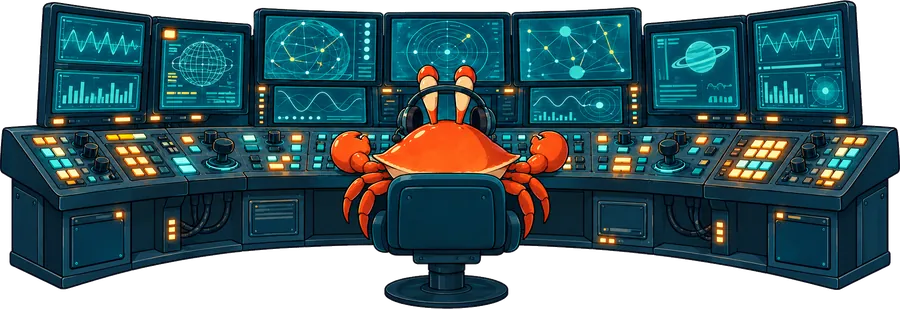
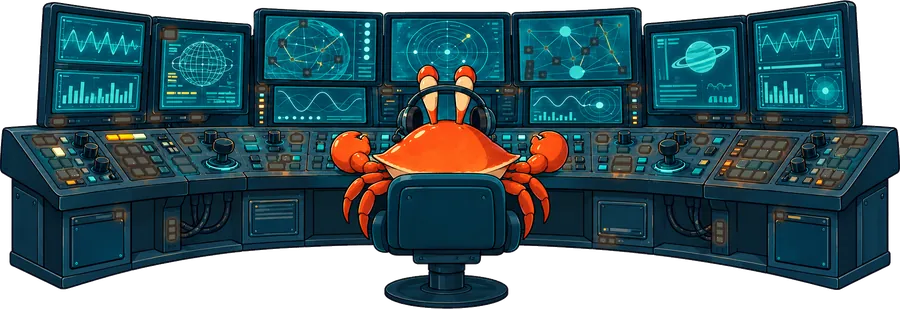
The controller's desk lights from Tom's marked copy: 69 yellow and 39 blue, exact shapes
krab-controller.webp now has every marked light off (dimmed, with the glow around it), and
krab-controller-lamps.webp holds ten groups of them lit, one band each, laid over it: six
groups of yellow lights blink (mostly on with a flicker, half and half, mostly off with a
flash), four of blue buttons and screens glow up and down. Replaces the twelve guessed lamps.
The art's URLs are relative to the stylesheet.

diff --git a/web/style.css b/web/style.css
@@ -704,25 +704,39 @@ body[data-art] > header, body[data-art] > section { position: relative; z-index:
   display: none; position: fixed; right: 1rem; bottom: 1rem; z-index: 0; pointer-events: none;
   width: min(30vw, 22rem); aspect-ratio: 520 / 539; background: no-repeat center / contain; opacity: 0.16;
 }
-[data-art="doctor"] .admin-art { display: block; background-image: url("/art/krab-doctor.webp"); }
-[data-art="librarian"] .admin-art { display: block; background-image: url("/art/krab-librarian.webp"); aspect-ratio: 600 / 475; }
-[data-art="electronics"] .admin-art { display: block; background-image: url("/art/krab-electronics.webp"); aspect-ratio: 520 / 550; }
-[data-art="controller"] .admin-art { display: block; background-image: url("/art/krab-controller.webp");
+[data-art="doctor"] .admin-art { display: block; background-image: url("art/krab-doctor.webp"); }
+[data-art="librarian"] .admin-art { display: block; background-image: url("art/krab-librarian.webp"); aspect-ratio: 600 / 475; }
+[data-art="electronics"] .admin-art { display: block; background-image: url("art/krab-electronics.webp"); aspect-ratio: 520 / 550; }
+[data-art="controller"] .admin-art { display: block; background-image: url("art/krab-controller.webp");
   width: min(46vw, 34rem); aspect-ratio: 900 / 309; opacity: 0.22; }
-/* The desk's lamps: each over one of its yellow lights, dark when off, glowing when on, each
-   at its own pace (--t) and starting point (--d). */
+/* The desk's lights: the picture has them all off (krab-controller.webp); each of ten groups,
+   lit, is one band of krab-controller-lamps.webp, laid exactly over it (--g picks the band).
+   Groups 0-5 are the yellow lights, which blink: some mostly on with a flicker off, some half
+   and half, some mostly off with a flash. Groups 6-9 are the blue buttons and screens, which
+   glow up and down. Made from Tom's marked copy of the picture (pink and green). */
 .art-lamps { display: none; position: absolute; inset: 0; }
 [data-art="controller"] .art-lamps { display: block; }
 .art-lamps i {
-  position: absolute; left: calc(var(--x) - var(--w) / 2 - 1px); top: calc(var(--y) - var(--h) / 2 - 1px);
-  width: calc(var(--w) + 2px); height: calc(var(--h) + 2px); border-radius: 2px;
-  animation: art-lamp var(--t) steps(1, end) var(--d) infinite;
+  position: absolute; inset: 0; will-change: opacity;
+  background: url("art/krab-controller-lamps.webp") no-repeat 0 calc(var(--g) * 100% / 9) / 100% 1000%;
 }
-@keyframes art-lamp {
-  0% { background: #26353d; box-shadow: none; }
-  45% { background: #fff1a8; box-shadow: 0 0 6px 2px rgba(255, 205, 70, 0.9); }
-}
-@media (prefers-reduced-motion: reduce) { .art-lamps i { animation: none; } }
+.art-lamps i:nth-child(-n+6) { filter: drop-shadow(0 0 2px rgba(255, 190, 70, 0.85)); }
+.art-lamps i:nth-child(1) { animation: lamp-flick 3.1s steps(1, end) infinite; }
+.art-lamps i:nth-child(2) { animation: lamp-half 1.7s steps(1, end) -0.4s infinite; }
+.art-lamps i:nth-child(3) { animation: lamp-flash 2.6s steps(1, end) -1.1s infinite; }
+.art-lamps i:nth-child(4) { animation: lamp-flick 4.3s steps(1, end) -1.2s infinite; }
+.art-lamps i:nth-child(5) { animation: lamp-half 2.9s steps(1, end) -0.7s infinite; }
+.art-lamps i:nth-child(6) { animation: lamp-flash 1.9s steps(1, end) -1.5s infinite; }
+.art-lamps i:nth-child(7) { animation: lamp-glow 3.5s ease-in-out infinite; }
+.art-lamps i:nth-child(8) { animation: lamp-glow 5s ease-in-out -2s infinite; }
+.art-lamps i:nth-child(9) { animation: lamp-glow 6.5s ease-in-out -4s infinite; }
+.art-lamps i:nth-child(10) { animation: lamp-glow 4.2s ease-in-out -1s infinite; }
+@keyframes lamp-flick { 0% { opacity: 1; } 88% { opacity: 0; } }
+@keyframes lamp-half { 0% { opacity: 1; } 50% { opacity: 0; } }
+@keyframes lamp-flash { 0% { opacity: 0; } 78% { opacity: 1; } }
+@keyframes lamp-glow { 0%, 100% { opacity: 1; } 50% { opacity: 0.25; } }
+/* No motion asked for: every light on, as in the picture. */
+@media (prefers-reduced-motion: reduce) { .art-lamps i { animation: none; opacity: 1; } }
 @media (max-width: 760px) {
   .admin-art { width: 45vw; opacity: 0.12; }
   [data-art="controller"] .admin-art { width: 70vw; opacity: 0.16; }

diff --git a/web/admin.html b/web/admin.html
@@ -56,22 +56,9 @@
     </nav>
 
     <main class="admin-main">
-      <!-- Background art by side-bar group (admin.js sets data-art on main). The lamps sit over
-           yellow lights on the controller's desk, as fractions of the picture, and blink. -->
-      <div class="admin-art" aria-hidden="true"><span class="art-lamps">
-        <i style="--x:5.4%;--y:45.3%;--w:1.33%;--h:2.27%;--t:2.6s;--d:-2.2s"></i>
-        <i style="--x:13.6%;--y:37.9%;--w:1.56%;--h:1.29%;--t:1.8s;--d:-0.2s"></i>
-        <i style="--x:15.2%;--y:56.0%;--w:1.33%;--h:2.27%;--t:2.1s;--d:-2.7s"></i>
-        <i style="--x:19.0%;--y:11.6%;--w:1.11%;--h:2.27%;--t:2.7s;--d:-1.3s"></i>
-        <i style="--x:19.2%;--y:74.4%;--w:0.56%;--h:1.62%;--t:3.1s;--d:-1.8s"></i>
-        <i style="--x:20.8%;--y:45.7%;--w:1.00%;--h:1.29%;--t:2.4s;--d:-3.2s"></i>
-        <i style="--x:30.6%;--y:54.3%;--w:1.44%;--h:1.29%;--t:3.4s;--d:-1.0s"></i>
-        <i style="--x:67.0%;--y:45.0%;--w:1.00%;--h:1.62%;--t:3.1s;--d:-2.1s"></i>
-        <i style="--x:80.1%;--y:77.1%;--w:0.56%;--h:1.62%;--t:3.9s;--d:-2.9s"></i>
-        <i style="--x:81.8%;--y:56.4%;--w:1.44%;--h:2.27%;--t:2.3s;--d:-3.9s"></i>
-        <i style="--x:86.8%;--y:45.6%;--w:0.89%;--h:1.29%;--t:1.9s;--d:-1.7s"></i>
-        <i style="--x:94.3%;--y:45.4%;--w:1.22%;--h:2.27%;--t:3.6s;--d:-0.6s"></i>
-      </span></div>
+      <!-- Background art by side-bar group (admin.js sets data-art on main). The controller's
+           desk lights come in ten groups, each a layer of art/krab-controller-lamps.webp. -->
+      <div class="admin-art" aria-hidden="true"><span class="art-lamps"><i style="--g:0"></i><i style="--g:1"></i><i style="--g:2"></i><i style="--g:3"></i><i style="--g:4"></i><i style="--g:5"></i><i style="--g:6"></i><i style="--g:7"></i><i style="--g:8"></i><i style="--g:9"></i></span></div>
       <div class="helper-banner" id="helper-banner" role="alert" hidden>
         <strong>The box's root helper is not answering.</strong>
         <span id="helper-banner-detail"></span>

diff --git a/web/services.html b/web/services.html
@@ -37,20 +37,7 @@
   </section>
 
   <!-- The controller at its desk, as on /admin's Box and System panes (style.css). -->
-  <div class="admin-art" aria-hidden="true"><span class="art-lamps">
-    <i style="--x:5.4%;--y:45.3%;--w:1.33%;--h:2.27%;--t:2.6s;--d:-2.2s"></i>
-    <i style="--x:13.6%;--y:37.9%;--w:1.56%;--h:1.29%;--t:1.8s;--d:-0.2s"></i>
-    <i style="--x:15.2%;--y:56.0%;--w:1.33%;--h:2.27%;--t:2.1s;--d:-2.7s"></i>
-    <i style="--x:19.0%;--y:11.6%;--w:1.11%;--h:2.27%;--t:2.7s;--d:-1.3s"></i>
-    <i style="--x:19.2%;--y:74.4%;--w:0.56%;--h:1.62%;--t:3.1s;--d:-1.8s"></i>
-    <i style="--x:20.8%;--y:45.7%;--w:1.00%;--h:1.29%;--t:2.4s;--d:-3.2s"></i>
-    <i style="--x:30.6%;--y:54.3%;--w:1.44%;--h:1.29%;--t:3.4s;--d:-1.0s"></i>
-    <i style="--x:67.0%;--y:45.0%;--w:1.00%;--h:1.62%;--t:3.1s;--d:-2.1s"></i>
-    <i style="--x:80.1%;--y:77.1%;--w:0.56%;--h:1.62%;--t:3.9s;--d:-2.9s"></i>
-    <i style="--x:81.8%;--y:56.4%;--w:1.44%;--h:2.27%;--t:2.3s;--d:-3.9s"></i>
-    <i style="--x:86.8%;--y:45.6%;--w:0.89%;--h:1.29%;--t:1.9s;--d:-1.7s"></i>
-    <i style="--x:94.3%;--y:45.4%;--w:1.22%;--h:2.27%;--t:3.6s;--d:-0.6s"></i>
-  </span></div>
+  <div class="admin-art" aria-hidden="true"><span class="art-lamps"><i style="--g:0"></i><i style="--g:1"></i><i style="--g:2"></i><i style="--g:3"></i><i style="--g:4"></i><i style="--g:5"></i><i style="--g:6"></i><i style="--g:7"></i><i style="--g:8"></i><i style="--g:9"></i></span></div>
   <script src="hub.js"></script>
   <script src="services.js"></script>
 </body>
